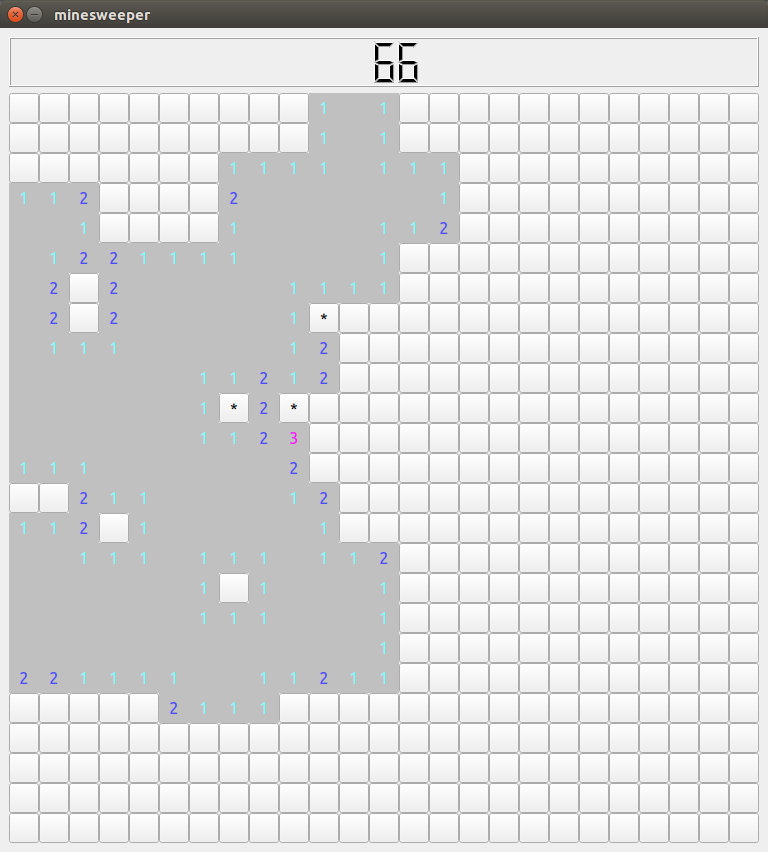
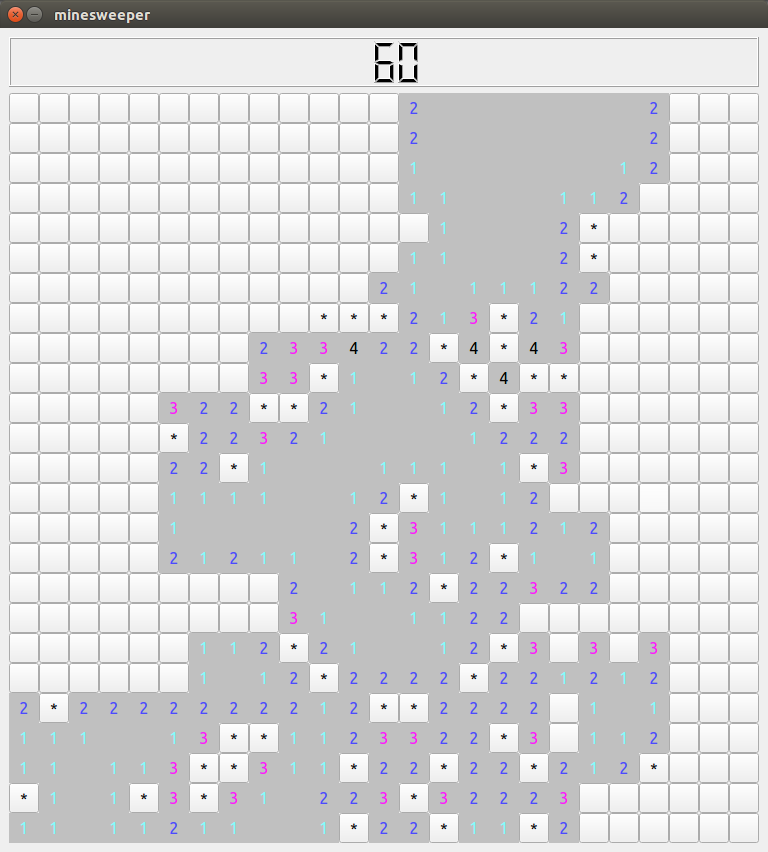
Updated screenshot + minor changes

diff --git a/minecell.cpp b/minecell.cpp
@@ -9,13 +9,11 @@
 #include "minecell.h"
 
 MineCell::MineCell(int size, QWidget *parent)
-    : QPushButton(parent), opened(false), value(0), bomb(false), marked(false)
+    : QPushButton(parent), value(0), bomb(false), marked(false), opened(false)
 {
     this->cell = {0.0, 0.0, (double)size, (double)size};
     this->setMinimumSize(size, size);
     this->setMaximumSize(size, size);
-
-    connect(this, SIGNAL(clicked(bool)), this, SLOT(onClicked(bool)));
 }
 
 void MineCell::addNeighbour(MineCell *neighbour)

diff --git a/mineboard.cpp b/mineboard.cpp
@@ -25,7 +25,7 @@ MineBoard::MineBoard(int rows, int cols, QWidget *parent)
     for (int i = 0; i < m_rows; i++) {
         for (int j = 0; j < m_cols; j++) {
             MineCell *cell = new MineCell(SIZE, this);
-            if (qrand() % 100 > 88) {
+            if (qrand() % 100 > 80) {
                 cell->setBomb();
                 bombLCD->display(bombLCD->intValue() + 1);
             }

diff --git a/minecell.h b/minecell.h
@@ -44,11 +44,11 @@ private:
     bool rightClick;
 
     // This is the model
+    int value;
+
     bool bomb;
     bool marked;
     bool opened;
-
-    int value;
 };
 
 #endif // MINECELL_H
